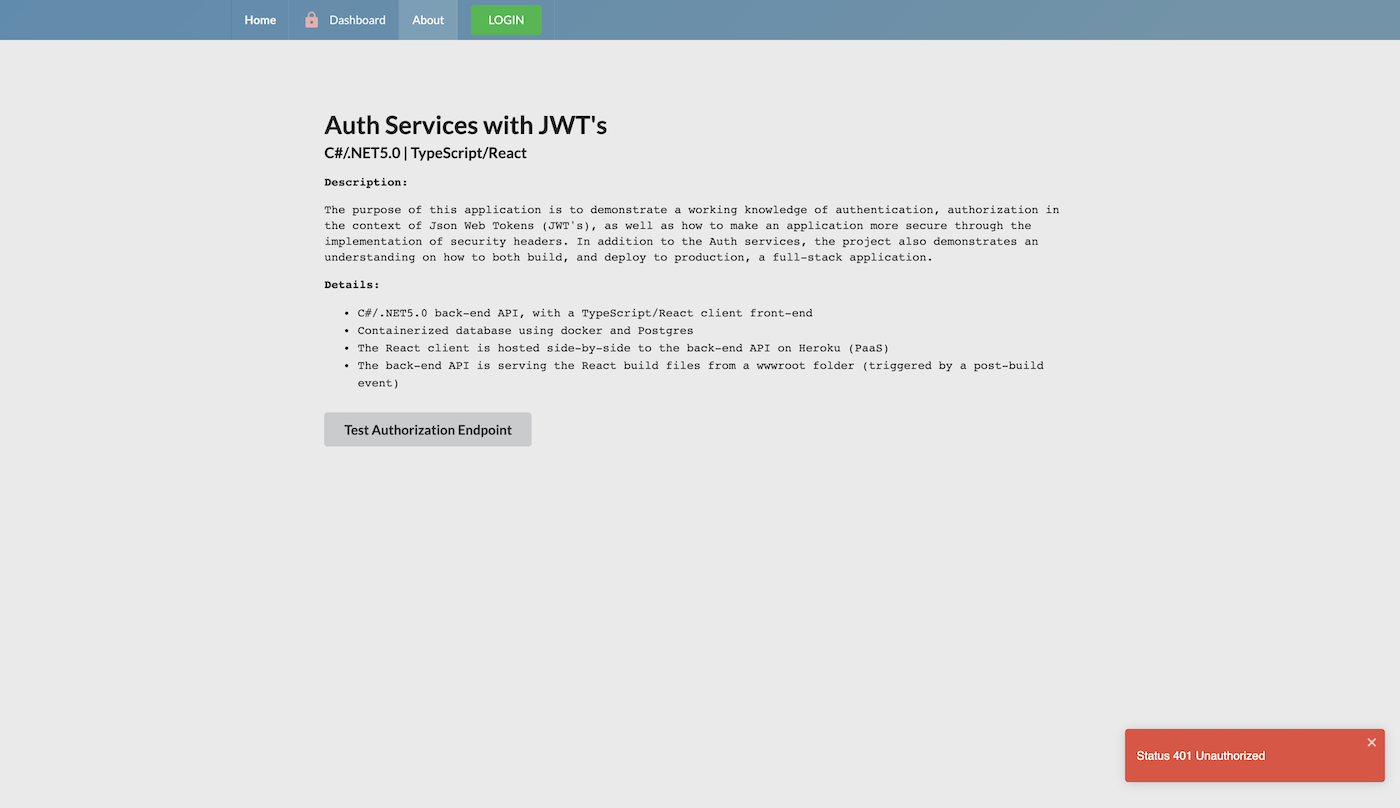
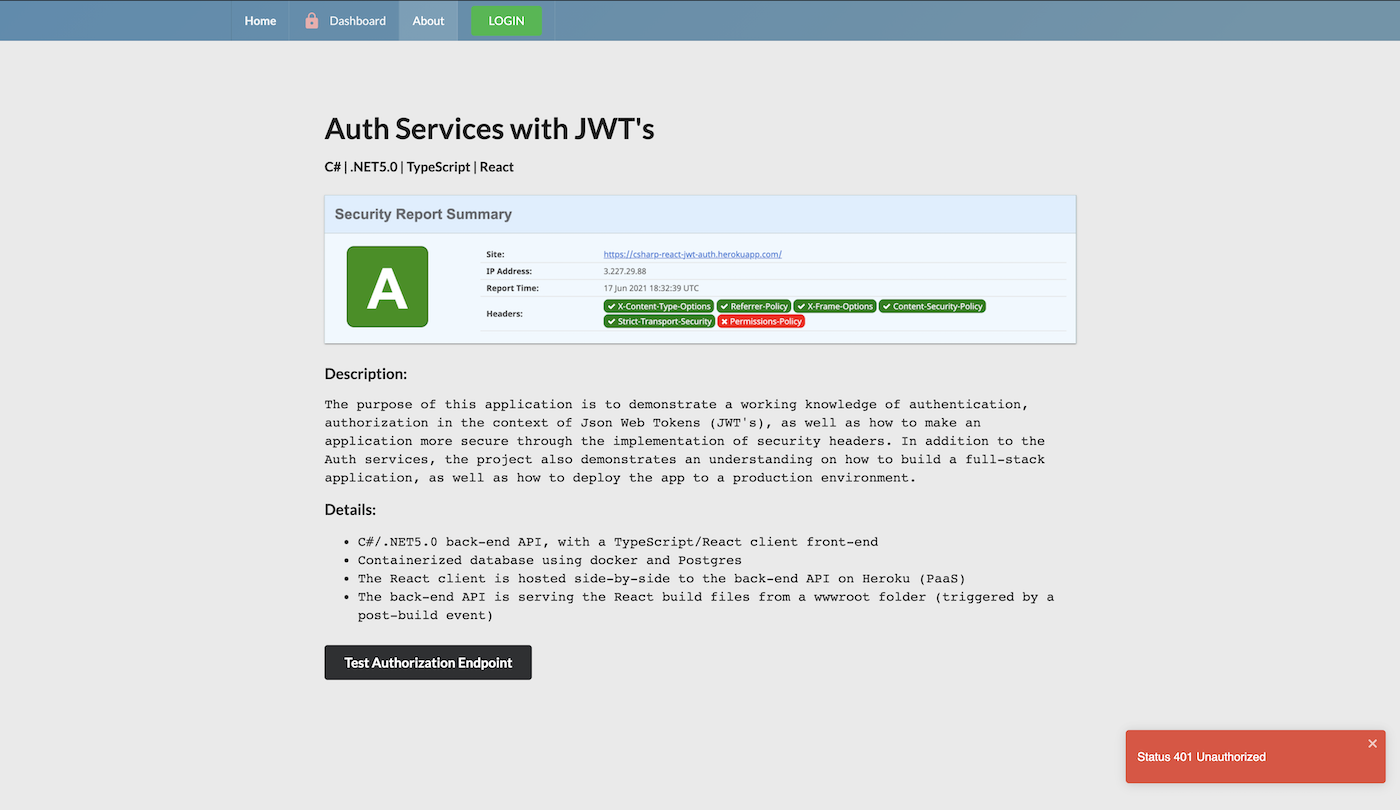
Overhaul styling by adding images, adjusting sizes, and updating color

Changed region(s): [[0.215, 0.1238, 0.7679, 0.8663], [0.1843, 0.0, 0.3993, 0.0309], [0.7986, 0.9282, 0.9214, 0.9592]]

diff --git a/client-app/src/features/about/About.tsx b/client-app/src/features/about/About.tsx
@@ -7,10 +7,9 @@ import { toast } from "react-toastify";
 const About = (props: any) => {
   const handleTestAuthEndpoint = () => {
     agent.TestAuth.test().then((res) => {
-      toast.success(`Response: ${res}`, {
+      toast.success(`${res}`, {
         position: "bottom-right",
         autoClose: 5000,
-        hideProgressBar: false,
         closeOnClick: true,
         pauseOnHover: true,
         draggable: true,
@@ -22,7 +21,7 @@ const About = (props: any) => {
   return (
     <Container
       style={{
-        fontSize: 18,
+        fontSize: 16,
         fontFamily: "monospace",
         width: "80%",
         marginTop: 130,
@@ -34,24 +33,37 @@ const About = (props: any) => {
       <h2
         style={{
           fontWeight: 600,
-          fontSize: 18,
-          marginTop: -3,
+          fontSize: 16,
+          marginTop: 10,
         }}
       >
-        C#/.NET5.0 | TypeScript/React
+        C# | .NET5.0 | TypeScript | React
       </h2>
-      <p style={{ fontWeight: 600 }}>Description:</p>
+      <a href="https://securityheaders.com/">
+        <img
+          src="/assets/screenshots/ss-security-rating.png"
+          alt="security rating"
+          style={{
+            marginBottom: 20,
+            marginTop: 10,
+            width: "100%",
+            boxShadow:
+              "0px 2px 1px -1px rgb(0 0 0 / 20%), 0px 1px 1px 0px rgb(0 0 0 / 14%), 0px 1px 3px 0px rgb(0 0 0 / 12%)",
+          }}
+        />
+      </a>
+      <h3>Description:</h3>
       <p>
         The purpose of this application is to demonstrate a working knowledge of
         authentication, authorization in the context of Json Web Tokens (JWT's),
         as well as how to make an application more secure through the
         implementation of security headers. In addition to the Auth services,
         the project also demonstrates an understanding on how to build a
-        full-stack application, as well as how to deploy the app to a production
+        full-stack application, and how to deploy it to a production
         environment.
       </p>
-      <p style={{ fontWeight: 600 }}>Details:</p>
-      <ul style={{ lineHeight: "1.5rem" }}>
+      <h3>Details:</h3>
+      <ul style={{ lineHeight: "1.6rem" }}>
         <li>
           C#/.NET5.0 back-end API, with a TypeScript/React client front-end
         </li>
@@ -65,8 +77,8 @@ const About = (props: any) => {
           folder (triggered by a post-build event)
         </li>
       </ul>
-      <div style={{ marginTop: 25 }}>
-        <Button onClick={handleTestAuthEndpoint} size="large">
+      <div style={{ margin: "40px 0 50px" }}>
+        <Button onClick={handleTestAuthEndpoint} color="black" size="large">
           Test Authorization Endpoint
         </Button>
       </div>

diff --git a/client-app/src/features/dashboard/MacWindow.tsx b/client-app/src/features/dashboard/MacWindow.tsx
@@ -3,46 +3,33 @@ import DashboardContent from "./DashboardContent";
 import "./MacWindowStyles.css";
 
 const YosemiteWindow = () => {
-
   const handleUserWarningMessage = () => {
-    alert("IMPORTANT: This window is for design purposes only. It does not work as a functioning window.\n\nThank you!");
-  }
+    alert(
+      "IMPORTANT: This window is for design purposes only. It does not work as a functioning window.\n\nThank you!"
+    );
+  };
 
   return (
     <div className="window">
       <div className="titlebar">
+        {/* Mac buttons */}
         <div className="buttons" onClick={handleUserWarningMessage}>
           <div className="close">
-            <a className="closebutton" href="#">
-              <span>
-                <strong>x</strong>
-              </span>
-            </a>
-            {/* <!-- close button link --> */}
+            <button className="closebutton">x</button>
           </div>
           <div className="minimize">
-            <a className="minimizebutton" href="#">
-              <span>
-                <strong>&ndash;</strong>
-              </span>
-            </a>
-            {/* <!-- minimize button link --> */}
+            <button className="minimizebutton">&ndash;</button>
           </div>
           <div className="zoom">
-            <a className="zoombutton" href="#">
-              <span>
-                <strong>+</strong>
-              </span>
-            </a>
-            {/* <!-- zoom button link --> */}
+            <button className="zoombutton">+</button>
           </div>
         </div>
-            Current User Profile
-        {/* <!-- window title --> */}
+        {/* window title */}
+        User Profile (Mock Window)
       </div>
       <div className="content">
+        {/* window content */}
         <DashboardContent />
-        {/* <!-- window content --> */}
       </div>
     </div>
   );

diff --git a/client-app/src/features/dashboard/DashboardContent.tsx b/client-app/src/features/dashboard/DashboardContent.tsx
@@ -12,10 +12,9 @@ const DashboardContent = (props: any) => {
 
   const handleTestAuthEndpoint = () => {
     agent.TestAuth.test().then((res) => {
-      toast.success(`Response: ${res}`, {
+      toast.success(`${res}`, {
         position: "bottom-right",
         autoClose: 5000,
-        hideProgressBar: false,
         closeOnClick: true,
         pauseOnHover: true,
         draggable: true,
@@ -26,14 +25,20 @@ const DashboardContent = (props: any) => {
 
   return (
     <Container>
-      <p style={{ fontWeight: 600, fontSize: 16 }}>Current User:</p>
-      <ul style={{ maxWidth: "100%", overflowWrap: "break-word" }}>
+      <h3>Current User:</h3>
+      <ul
+        style={{
+          maxWidth: "100%",
+          overflowWrap: "break-word",
+          lineHeight: "1.8rem",
+        }}
+      >
         <li>Username: {user?.userName}</li>
         <li>Display Name: {user?.displayName}</li>
         <li>Token: {user?.token}</li>
       </ul>
-      <div style={{ marginTop: 50, marginBottom: 50 }}>
-        <Button onClick={handleTestAuthEndpoint} size="large">
+      <div style={{ marginTop: 75, marginBottom: 75, textAlign: "center" }}>
+        <Button onClick={handleTestAuthEndpoint} color="black" size="large">
           Test Authorization Endpoint
         </Button>
       </div>

diff --git a/client-app/src/features/dashboard/MacWindowStyles.css b/client-app/src/features/dashboard/MacWindowStyles.css
@@ -1,5 +1,3 @@
-/* window BEGIN */
-
 a {
   text-decoration: none;
 }
@@ -13,7 +11,6 @@ span {
   background: #fff;
   max-width: 700px;
   min-width: 320px;
-  height: 65vh;
   margin: auto;
   margin-top: 12.5vh;
   border: 1px solid #acacac;
@@ -125,16 +122,16 @@ span {
   cursor: default;
 }
 
+h3 {
+    margin-top: 0px;
+}
+
 .content {
   padding: 5%;
 }
 
-/* window END */
-
-/* content BEGIN */
-
-h3 {
-  margin-top: 0px;
-}
-
-/* content END */
+@media only screen and (max-width: 600px) {
+    .content {
+        padding: 10% 0;
+    }
+  }

diff --git a/client-app/src/features/dashboard/Dashboard.tsx b/client-app/src/features/dashboard/Dashboard.tsx
@@ -7,10 +7,14 @@ const Dashboard = (props: any) => {
   return (
     <Container
       style={{
-        fontSize: 14,
-        fontFamily: "monospace",
         maxWidth: "80%",
-        marginTop: 130,
+        height: "94vh",
+        marginTop: "-5vh",
+        display: "flex",
+        alignItems: "center",
+        lineHeight: "1.6rem",
+        fontSize: 16,
+        fontFamily: "monospace",
       }}
     >
       <MacWindow />

diff --git a/client-app/src/app/layout/Navbar.tsx b/client-app/src/app/layout/Navbar.tsx
@@ -44,7 +44,7 @@ const NavBar = () => {
                 avatar
                 spaced="right"
                 />
-            <Dropdown pointing="top left" text={user?.displayName}>
+            <Dropdown pointing="top right" text={user?.displayName}>
                 <Dropdown.Menu>
                 <Dropdown.Item
                     // TODO: Add Profile and remove disabled attribute

diff --git a/API/Startup.cs b/API/Startup.cs
@@ -89,8 +89,9 @@ namespace API
                     context.Response.Headers.Add("Strict-Transport-Security", "max-age=31536000");
                     await next.Invoke();
                 });
+
+                app.UseHttpsRedirection();
             }
-            app.UseHttpsRedirection();
 
             app.UseRouting();
 

diff --git a/API/Controllers/TestAuthController.cs b/API/Controllers/TestAuthController.cs
@@ -12,7 +12,7 @@ namespace API.Controllers
         [HttpGet]
         public ActionResult<string> Get()
         {
-            return Ok("Looks like you are Authorized for this endpoint!");
+            return Ok("You are Authorized for this endpoint!");
         }
     }
 }

diff --git a/README.md b/README.md
@@ -25,7 +25,7 @@ authentication, authorization in the context of Json Web Tokens (JWT's),
 as well as how to make an application more secure through the
 implementation of security headers. In addition to the Auth services,
 the project also demonstrates an understanding on how to build a
-full-stack application, as well as how to deploy the app to a production
+full-stack application, and how to deploy it to a production
 environment._
 
 ##  Details
